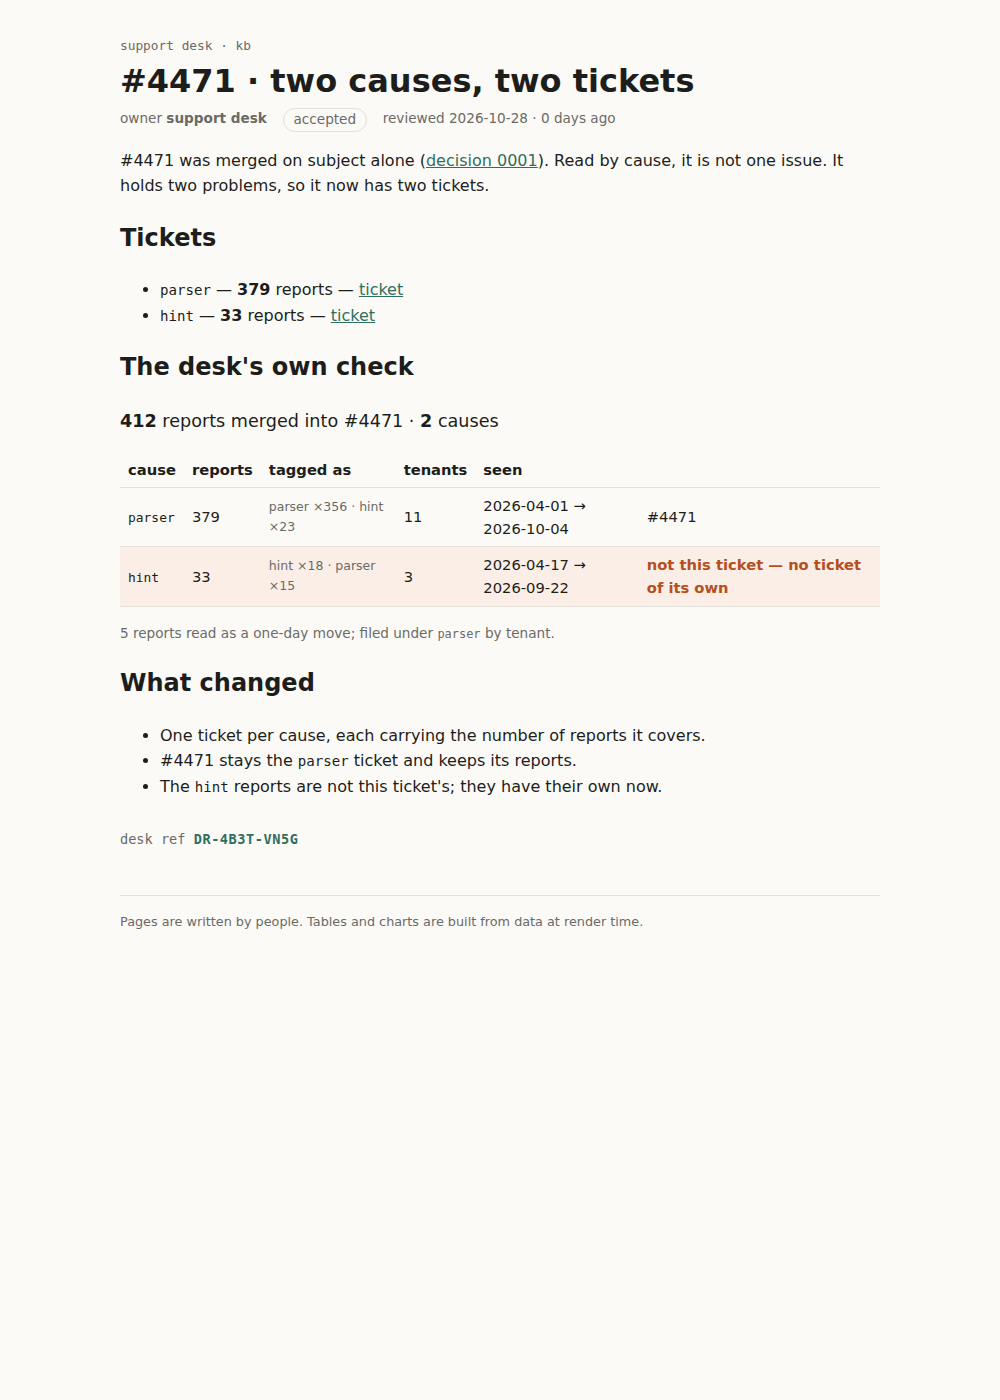
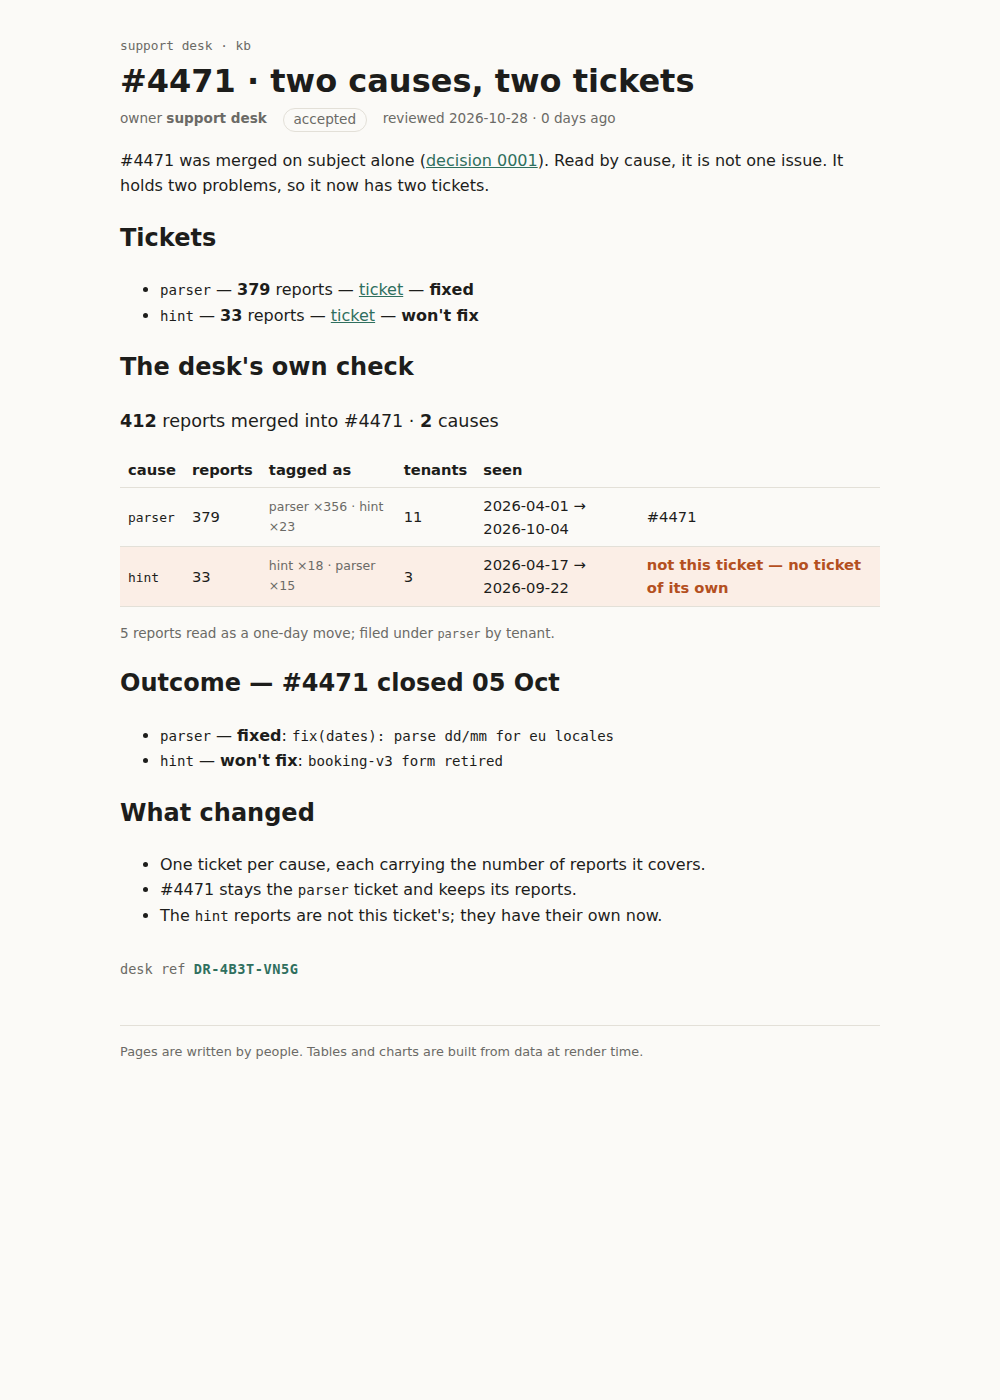
kb page: record desk outcome (parser fixed, hint won't fix), #4471 closed 05 Oct

diff --git a/page/4471-causes.html b/page/4471-causes.html
@@ -44,8 +44,8 @@
 
     <h2>Tickets</h2>
     <ul>
-  <li><code>parser</code> — <strong>379</strong> reports — <a href="https://github.com/apoganas/mega-s01e03-what-it-shows/issues/1">ticket</a></li>
-  <li><code>hint</code> — <strong>33</strong> reports — <a href="https://github.com/apoganas/mega-s01e03-what-it-shows/issues/2">ticket</a></li>
+  <li><code>parser</code> — <strong>379</strong> reports — <a href="https://github.com/apoganas/mega-s01e03-what-it-shows/issues/1">ticket</a> — <b>fixed</b></li>
+  <li><code>hint</code> — <strong>33</strong> reports — <a href="https://github.com/apoganas/mega-s01e03-what-it-shows/issues/2">ticket</a> — <b>won't fix</b></li>
     </ul>
 
     <h2>The desk's own check</h2>
@@ -74,6 +74,12 @@
       </tbody>
     </table>
 <p class="note">5 reports read as a one-day move; filed under <code>parser</code> by tenant.</p>
+    <h2>Outcome — #4471 closed 05 Oct</h2>
+    <ul>
+      <li><code>parser</code> — <strong>fixed</strong>: <code>fix(dates): parse dd/mm for eu locales</code></li>
+      <li><code>hint</code> — <strong>won't fix</strong>: <code>booking-v3 form retired</code></li>
+    </ul>
+
     <h2>What changed</h2>
     <ul>
       <li>One ticket per cause, each carrying the number of reports it covers.</li>

diff --git a/README.md b/README.md
@@ -12,6 +12,11 @@ problems** and needs **two tickets**.
 | `parser` — the shared date parser reads month-first and flips the day for day-first tenants | **379** | [issue #1](https://github.com/apoganas/mega-s01e03-what-it-shows/issues/1) |
 | `hint` — `booking-v3`'s `MM/DD/YYYY` hint flips the day for those tenants | **33** | [issue #2](https://github.com/apoganas/mega-s01e03-what-it-shows/issues/2) |
 
+## Outcome (desk update, #4471 closed 05 Oct)
+
+- `parser` — **fixed** (`fix(dates): parse dd/mm for eu locales`).
+- `hint` — **won't fix** (`booking-v3 form retired`).
+
 ## The page about them
 
 - Source: [`support-kb/src/routes/kb/incidents/4471-causes/+page.svx`](support-kb/src/routes/kb/incidents/4471-causes/+page.svx) — signed kb page (frontmatter `signature`, ends with `<RenderStamp />`).
